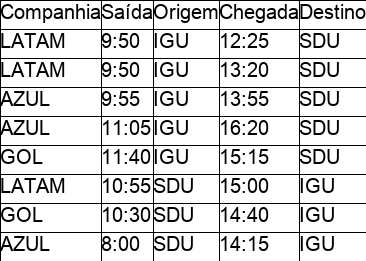
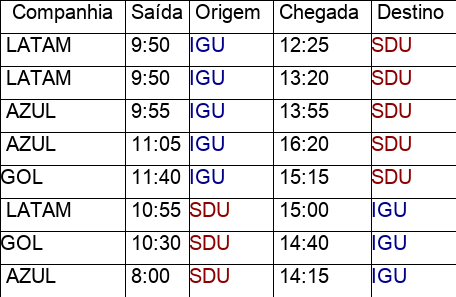
versao apresentavel

Changed region(s): [[0.0, 0.0, 1.0, 1.0]]

diff --git a/tabelaPanda.py b/tabelaPanda.py
@@ -13,7 +13,12 @@ data = [
     ["AZUL", "8:00", "SDU", "14:15", "IGU"]
 ]
 
-table_str = tabulate(data, headers="firstrow", tablefmt="grid")
+# Increase cell width by 50%
+data[0] = [f'{cell:^{int(len(cell) * 1.5)}}' for cell in data[0]]
+for i in range(1, len(data)):
+    data[i] = [f'{cell:^{int(len(cell) * 1.5)}}' if cell not in ("IGU", "SDU") else cell for cell in data[i]]
+
+table_str = tabulate(data, headers="firstrow", tablefmt="plain")
 font_size = 20
 font_path = "/Library/Fonts/Arial.ttf"  # Change this to the correct path on your system
 font = ImageFont.truetype(font_path, font_size)
@@ -31,7 +36,12 @@ y_position = 0
 for row in data:
     x_position = 0
     for cell, width in zip(row, cell_widths):
-        draw.text((x_position, y_position), cell, fill="black", font=font)
+        color = "black"
+        if cell == "IGU":
+            color = "darkblue"
+        elif cell == "SDU":
+            color = "darkred"
+        draw.text((x_position, y_position), cell, fill=color, font=font)
         x_position += width
     y_position += cell_height
 
